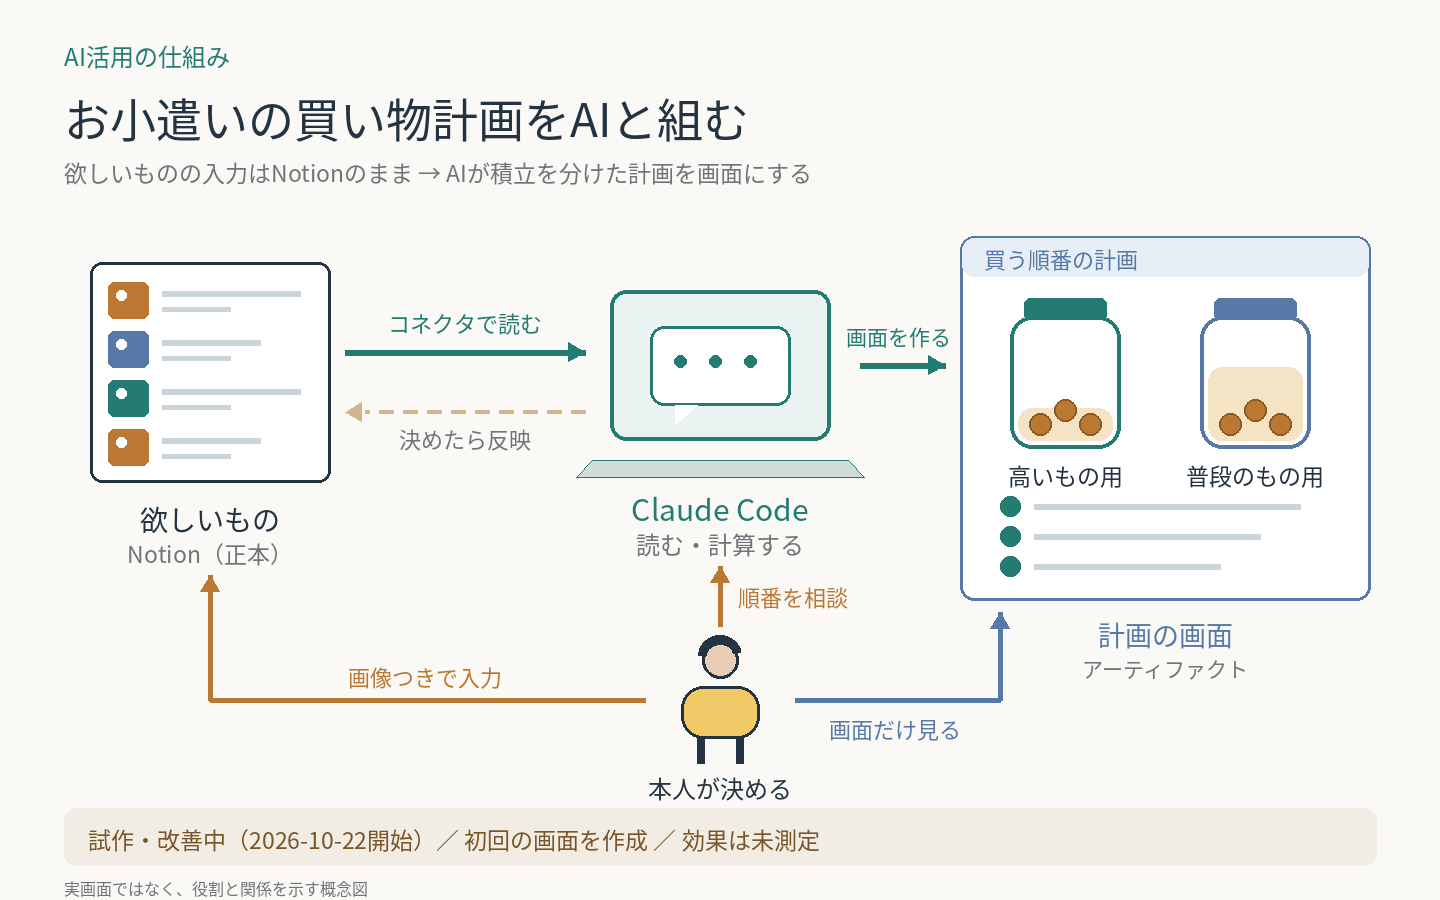
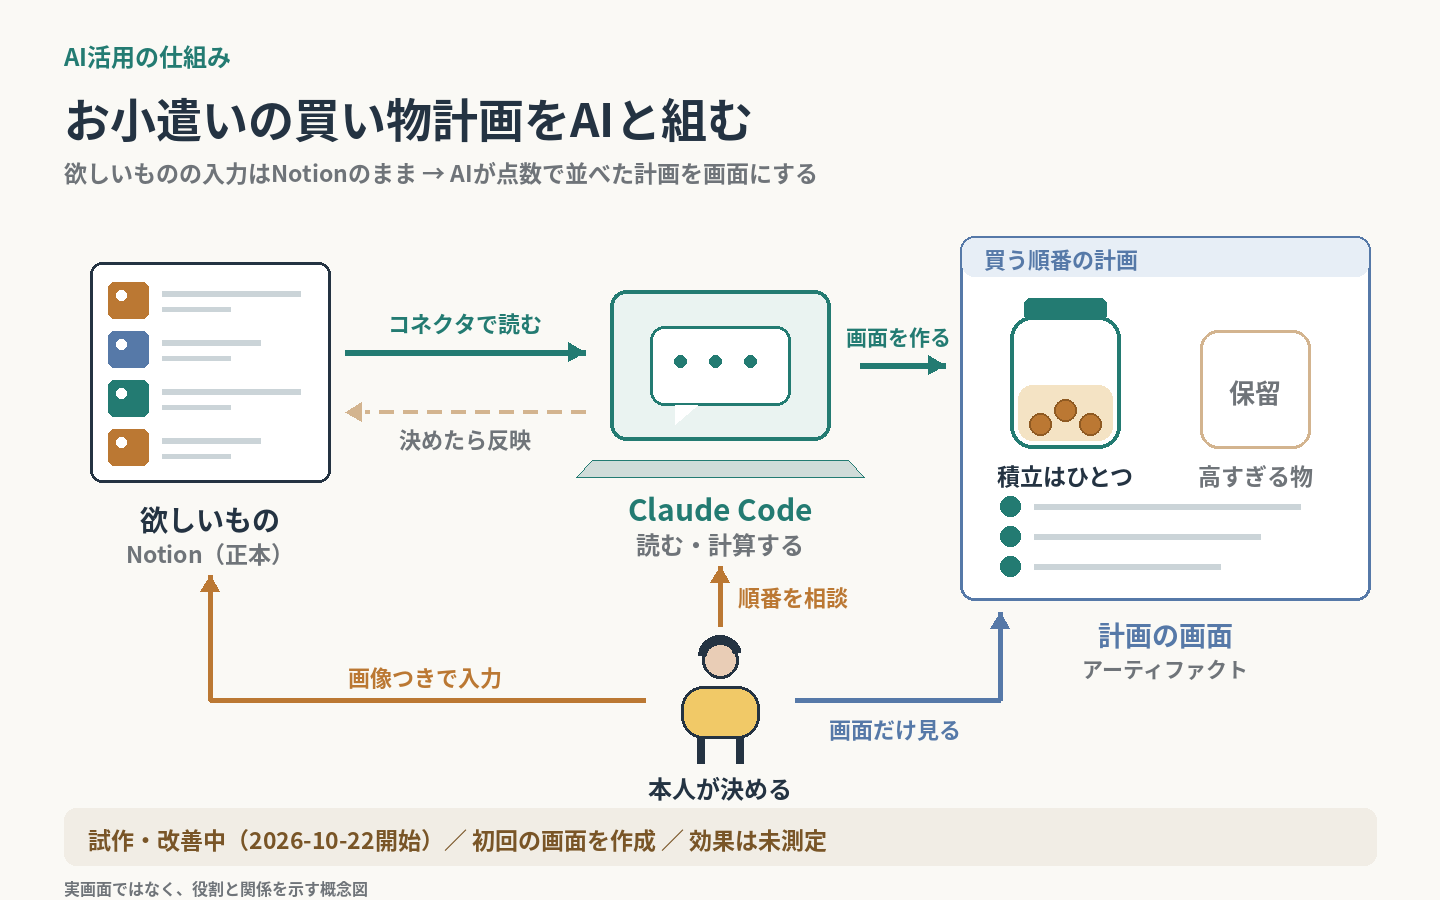
Update allowance shopping plan: back to one savings pool, hold line at ten months

diff --git a/cases/allowance-shopping-plan/figure.py b/cases/allowance-shopping-plan/figure.py
@@ -42,7 +42,7 @@ def jar(x, y, level, c):
         fk.d.ellipse((cx - 11, cy - 11, cx + 11, cy + 11), fill=fk.AMBER, outline='#8f5a22', width=2)
 
 
-fk.begin('お小遣いの買い物計画をAIと組む', '欲しいものの入力はNotionのまま → AIが積立を分けた計画を画面にする')
+fk.begin('お小遣いの買い物計画をAIと組む', '欲しいものの入力はNotionのまま → AIが点数で並べた計画を画面にする')
 
 # 左：本人が画像つきで入れる欲しいもの（正本）
 wish_db(90, 262)
@@ -58,16 +58,17 @@ fk.centered(720, 526, '読む・計算する', 24, fk.GRAY)
 fk.dashed_arrow([(585, 412), (345, 412)], fk.FAINT, 4)
 fk.centered(465, 422, '決めたら反映', 22, fk.GRAY)
 
-# 右：計画を見る画面（積立を2つに分ける）
+# 右：計画を見る画面（積立はひとつ。高すぎる物は保留）
 fk.arrow([(860, 365), (945, 365)])
 fk.centered(898, 320, '画面を作る', 21, fk.TEAL)
 fk.rr((960, 236, 1370, 600), 'white', fk.BLUE, 3, 14)
 fk.d.rounded_rectangle((962, 238, 1368, 276), radius=12, fill='#e7eef6')
 fk.text(984, 242, '買う順番の計画', 22, fk.BLUE)
-jar(1010, 316, .35, fk.TEAL)
-fk.centered(1065, 458, '高いもの用', 23)
-jar(1200, 316, .7, fk.BLUE)
-fk.centered(1255, 458, '普段のもの用', 23)
+jar(1010, 316, .55, fk.TEAL)
+fk.centered(1065, 458, '積立はひとつ', 23)
+fk.rr((1200, 330, 1310, 448), 'white', fk.FAINT, 3, 18)
+fk.centered(1255, 372, '保留', 26, fk.GRAY)
+fk.centered(1255, 458, '高すぎる物', 23, fk.GRAY)
 for k in range(3):
     ry = 506 + k * 30
     fk.d.ellipse((1000, ry - 10, 1020, ry + 10), fill=fk.TEAL)

diff --git a/cases/allowance-shopping-plan/README.md b/cases/allowance-shopping-plan/README.md
@@ -1,8 +1,8 @@
 # お小遣いの買い物計画をAIと組む
 
-![Notionの欲しいものをAIが読み、積立を2つに分けた計画画面を作り、本人が画面を見て相談する概念図](cover.png)
+![Notionの欲しいものをAIが読み、点数で並べた計画画面を作り、本人が画面を見て相談する概念図](cover.png)
 
-月に自由に使えるお金は限られ、安い順に買うと高いものがいつまでも買えない。欲しいものはNotionのデータベースに置いたまま、Claude Codeが読み取り、積立を「高いもの用」「普段のもの用」に分けた計画をアーティファクト（claude.ai上のWebページ）に表示する。
+月に自由に使えるお金は限られ、安い順に買うと高いものがいつまでも買えない。欲しいものはNotionのデータベースに置いたまま、Claude Codeが読み取り、買う順と買える月を出した計画をアーティファクト（claude.ai上のWebページ）に表示する。
 **試作・改善中。2026-10-22に初回の計画画面を作成。効果は未測定。**
 
 **AI：** Notionの読み取り、積立と買う順の計算、計画画面の作成、決まったことの画面とNotionへの反映（Notionは本人の了承後）。  
@@ -14,9 +14,9 @@
 
 - 入力場所は動かさない。以前、欲しいものをNotionからGitHub上のファイルへ移す仕組みを作ったが使いづらく、Notionに戻った。画像つきで見やすいNotionを正本のままにする。
 - 本人が見る場所は画面1つ。買う順はNotionにも作業メモにも書かず、画面に出す。
-- 積立を分け、数十万円の大きな出費が数万円の日用品に押し出されないようにする。
+- 最初は積立を「高いもの用」「普段のもの用」に分けたが、高すぎる物を保留に移し、点数で並べるようにしたら分ける理由がなくなり、ひとつの積立に戻した。数十万円の出費を毎月の積立で狙うのをやめたのが効いた。
 
-- 高いものにも段階をつける。お小遣いの2年分を超えるものは積み立てで狙わず「保留」に置き、お小遣いが増えると線が上がって候補に戻る。線を金額で固定しないので、引き直しが要らない。
+- 高いものにも段階をつける。お小遣いの10か月分を超えるものは積み立てで狙わず「保留」に置き、お小遣いが増えると線が上がって候補に戻る。線を金額で固定しないので、引き直しが要らない。
 - 棚卸しは画面のボタンで。本人が「いる／いらない」と欲しい度を押すと保存され、Claudeがまとめて Notion に反映する。件数が多くても、本人は押すだけで済む。
 
 - 欲しい度（★）はその場の気分が入るので、選択式の4つの質問（今困っているか・代わりはあるか・どれくらい使うか・どれだけ良くなるか）の合計点で並べる。ほかの物がないと使えない物は、その物と一緒に並べ、買う月をその物の後にする。登録から30日は「冷ます期間」として並べない（質問に答えた物は、考えたうえで残した物なので除く）。質問の仮の答えはAIが商品情報から出し、本人は違うところだけ口頭で直す。
